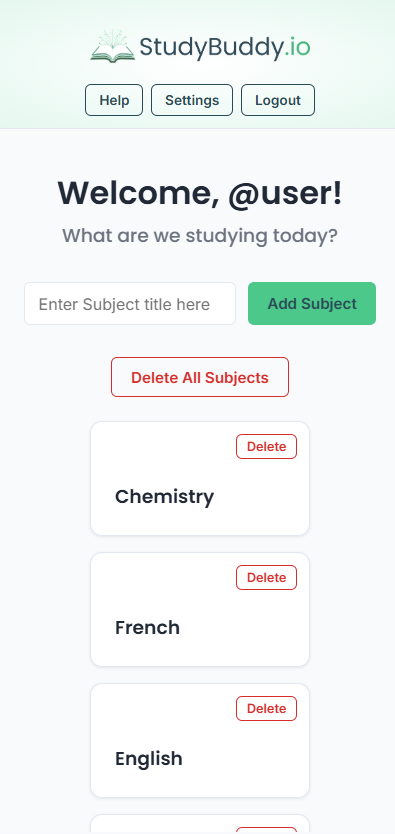
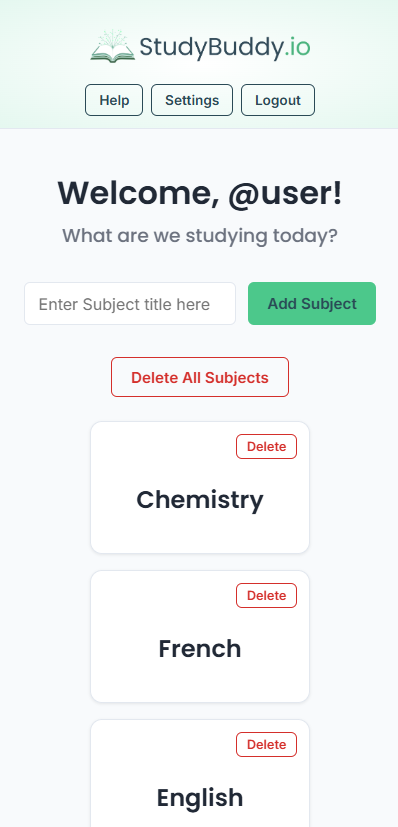
style: increased font-size of Subject cards in Dashboard with center-alignment

diff --git a/frontend/src/pages/Dashboard.jsx b/frontend/src/pages/Dashboard.jsx
@@ -123,7 +123,7 @@ export default function Dashboard() {
               aria-label={`Open ${s.title}`}
               style={{ cursor: 'pointer', position: 'relative', textAlign: 'left' }}
             >
-              <h3 style={{ marginTop: '2.25rem', marginBottom: 0, overflowWrap: 'break-word', wordBreak: 'break-word' }}>{s.title}</h3>
+              <h3 style={{ marginTop: '2.25rem', marginBottom: '0.75rem', overflowWrap: 'break-word', wordBreak: 'break-word', textAlign: 'center', fontSize: '1.5rem' }}>{s.title}</h3>
               <button
                 className="btn btn-danger"
                 onClick={(e) => deleteSubject(s._id, e)}